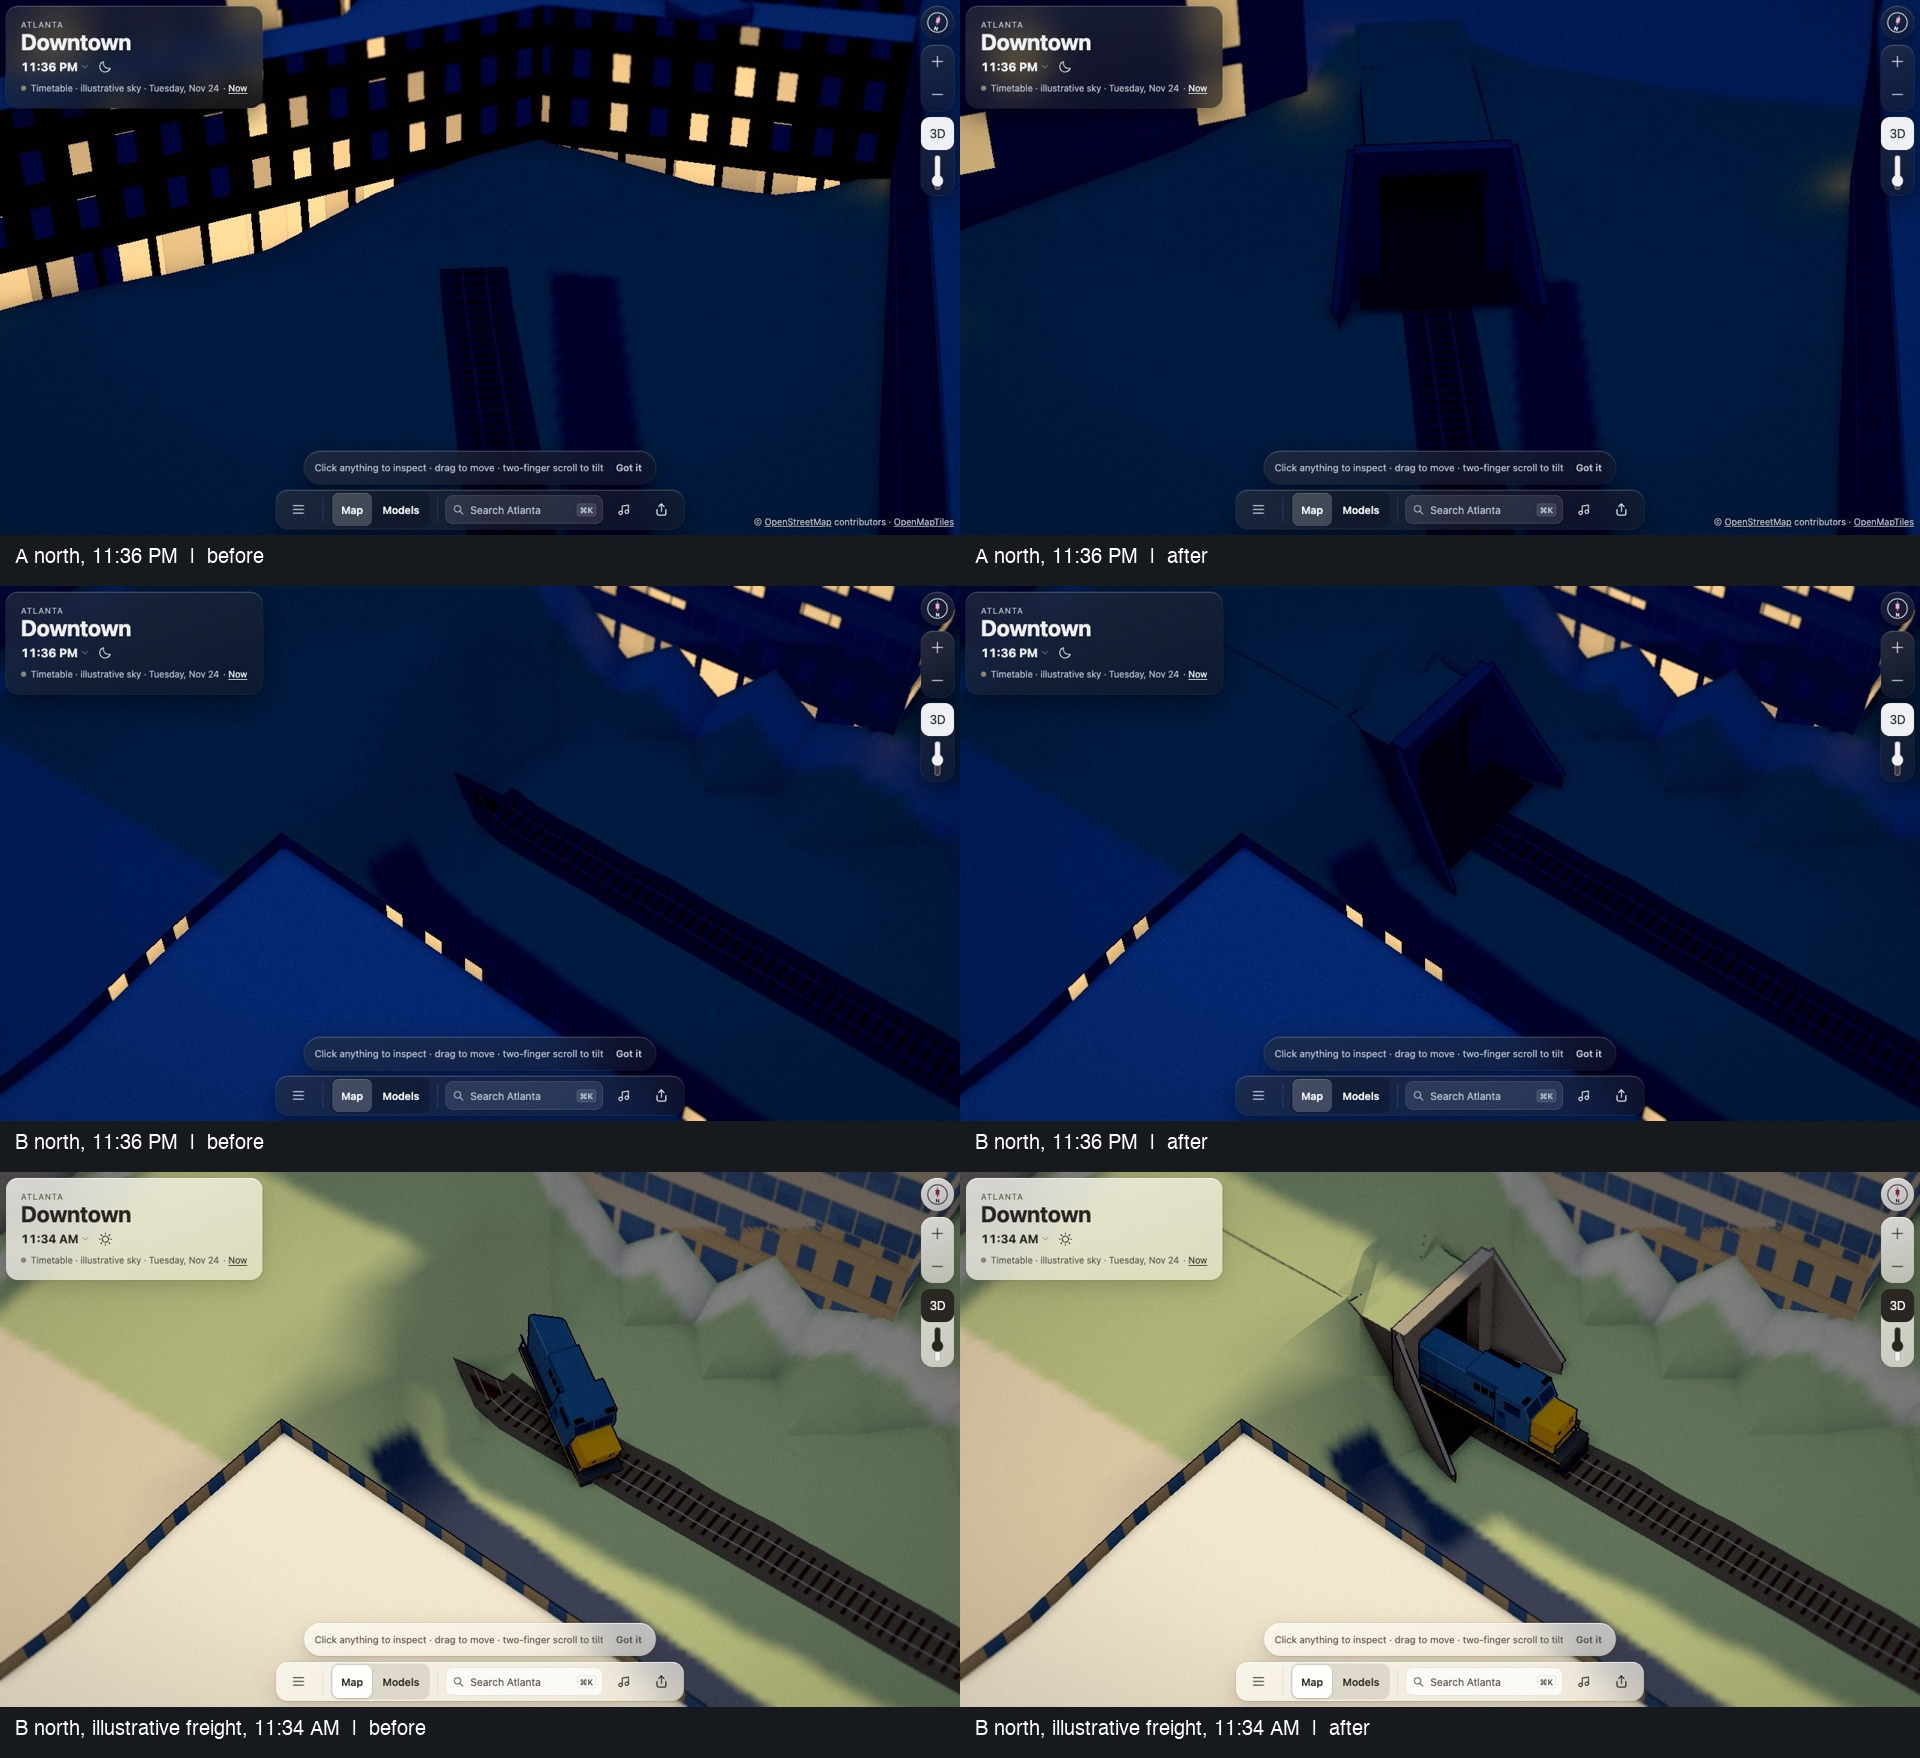
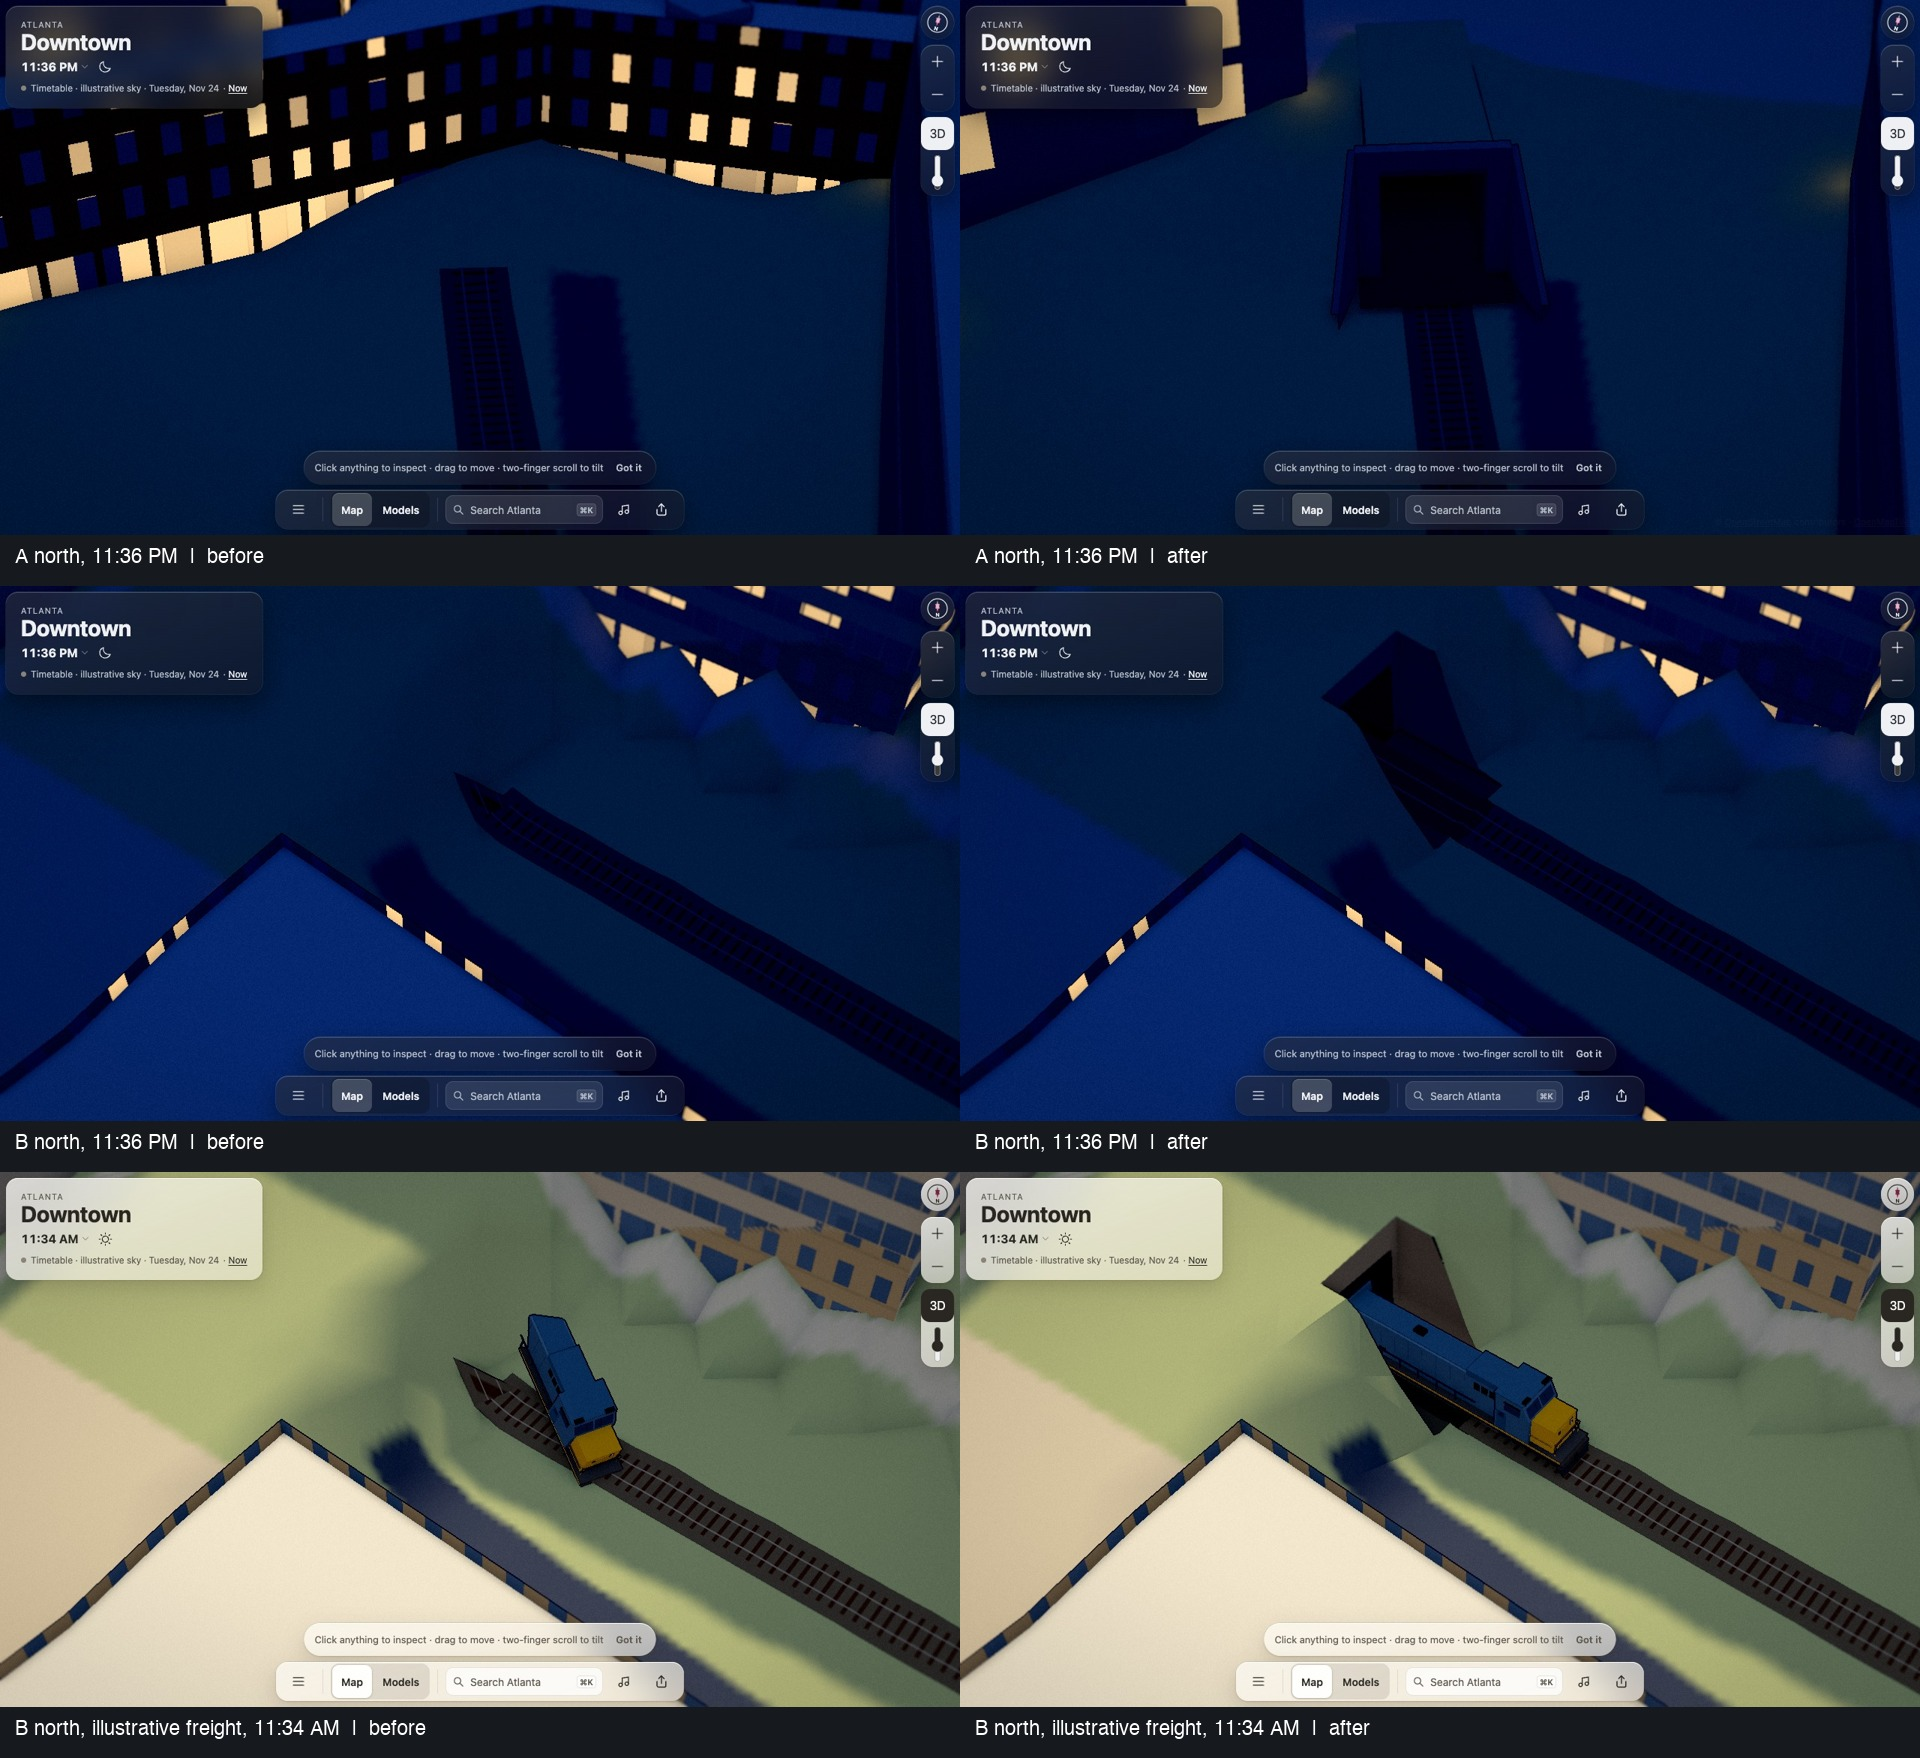
Set the Five Points freight mouth into the plaza bank

diff --git a/web/src/city/rail-portals.ts b/web/src/city/rail-portals.ts
@@ -27,9 +27,9 @@ export type MouthKind = 'hillside' | 'under' | 'cut-end' | 'terminus';
  * drawn building or deck at grade; `cut-end` is an end of the Five Points east cut, which still
  * lacks its end face (known, a separate fix); `terminus` is a real end of track.
  */
-export const DOWNTOWN_RAIL_ENDS: { at: P2; kind: MouthKind; why: string }[] = [
+export const DOWNTOWN_RAIL_ENDS: { at: P2; kind: MouthKind; faceInset?: number; why: string }[] = [
   { at: [-368, -592], kind: 'hillside', why: 'freight main into the tunnel under Centennial Olympic Park Dr, The CTR (ex-CNN Center) and the plaza; 8 m of cover' },
-  { at: [10, -41], kind: 'hillside', why: 'freight main into the tunnel under Underground Atlanta and Five Points; 9 m of cover' },
+  { at: [10, -41], kind: 'hillside', faceInset: 7, why: 'freight main into the tunnel under Underground Atlanta and Five Points; 9 m of cover' },
   { at: [-274, -345], kind: 'under', why: 'freight main under the Centennial Olympic Park Dr deck at grade' },
   { at: [-251, -288], kind: 'under', why: 'freight main into the Gulch deck structure at grade' },
   { at: [-199, -202], kind: 'under', why: 'freight main out of the Gulch deck structure at grade' },
@@ -55,6 +55,8 @@ export interface RailMouth {
   /** Scene y of the rail at the face, and of the cover over it. */
   railY: number;
   coverY: number;
+  /** Distance from the mapped rail end to the retaining face set into the hill. */
+  faceInset?: number;
 }
 
 /** Rail ends that neither meet another run nor a board edge. */
@@ -94,7 +96,8 @@ export function railMouths(rail: readonly Run[], bounds: { minX: number; maxX: n
   const zero = ground.manifest.vertical.sceneZeroNavd88M;
   const mouths: RailMouth[] = [];
   for (const end of looseRailEnds(rail, bounds)) {
-    if (declaredEnd(end.at)?.kind !== 'hillside') continue;
+    const declaration = declaredEnd(end.at);
+    if (declaration?.kind !== 'hillside') continue;
     const len = Math.hypot(end.at[0] - end.toward[0], end.at[1] - end.toward[1]) || 1;
     const dx = (end.at[0] - end.toward[0]) / len,
       dz = (end.at[1] - end.toward[1]) / len;
@@ -122,6 +125,7 @@ export function railMouths(rail: readonly Run[], bounds: { minX: number; maxX: n
       z: end.at[1] + dx * mid,
       dx,
       dz,
+      faceInset: declaration.faceInset,
       half: (hi - lo) / 2 + 3.2,
       railY: rail0 - zero,
       coverY: cover - zero,
@@ -133,8 +137,8 @@ export function railMouths(rail: readonly Run[], bounds: { minX: number; maxX: n
 /** Terrain openings so the lidar slope never fills a mouth: from 2 m outside the face to 16 m in. */
 export function railPortalOpenings(mouths: readonly RailMouth[]): OpenSlot[] {
   return mouths.map((m) => ({
-    start: [m.x - m.dx * 2, m.railY - 0.4, m.z - m.dz * 2] as const,
-    end: [m.x + m.dx * SLOT_END, m.railY - 0.4, m.z + m.dz * SLOT_END] as const,
+    start: [m.x - m.dx * 2, m.railY - (m.faceInset ? 1.2 : 0.4), m.z - m.dz * 2] as const,
+    end: [m.x + m.dx * (m.faceInset ?? SLOT_END), m.railY - (m.faceInset ? 1.2 : 0.4), m.z + m.dz * (m.faceInset ?? SLOT_END)] as const,
     halfWidthM: m.half + SLOT_MARGIN,
   }));
 }
@@ -172,6 +176,53 @@ export function buildRailPortals(mouths: readonly RailMouth[], ground: Ground, t
       clear = Math.min(7, Math.max(5.6, m.coverY - m.railY - 1.2)),
       top = Math.max(m.railY + clear + 1, m.coverY + 0.4),
       h = m.half;
+    if (m.faceInset) {
+      // At the south plaza the mapped track ends at the toe of a steep bank.
+      // Cut only the approach. The original terrain covers the entire tunnel.
+      const face = m.faceInset, outer = h + SLOT_MARGIN;
+      const rim = (u: number, w: number) => {
+        const [x, , z] = P(u, 0, w);
+        return terrainAt(x, z) ?? (ground.sample(x, z) ?? m.coverY + ground.manifest.vertical.sceneZeroNavd88M) - ground.manifest.vertical.sceneZeroNavd88M;
+      };
+      const ceiling = m.railY + 6;
+      for (const side of [-1, 1]) {
+        const u = side * outer;
+        // Wings meet the cut bank along its actual slope.
+        for (let w = -2; w < face; w++) {
+          const topAt = (s: number) => Math.max(y0, rim(u + side * .01, s));
+          quad([u,y0,w], [u,y0,w+1], [u,topAt(w+1),w+1], [u,topAt(w),w], CONCRETE_SIDE);
+        }
+        quad([side*h,y0,face], [u,y0,face], [u,ceiling,face], [side*h,ceiling,face], CONCRETE);
+        quad([side*h,y0,face], [side*h,ceiling,face], [side*h,ceiling,face+8], [side*h,y0,face+8], '#353330');
+      }
+      for (let u = -outer; u < outer; u += .5) {
+        const v = Math.min(outer,u+.5);
+        quad([u,ceiling,face], [v,ceiling,face], [v,rim(v,face+.01),face], [u,rim(u,face+.01),face], CONCRETE);
+      }
+      quad([-h,ceiling,face], [h,ceiling,face], [h,ceiling,face+8], [-h,ceiling,face+8], '#383531');
+      quad([-h,y0,face+8], [h,y0,face+8], [h,ceiling,face+8], [-h,ceiling,face+8], '#050505');
+      // The terrain slot clips the mapped tread just before its surveyed
+      // endpoint. Continue the rails from the last supported approach.
+      const approach = -3.5;
+      const tread = rim(0, approach) + .13;
+      const strip = (left: number, right: number, w0: number, w1: number, y: number, colour: string) => {
+        const vertex = (u: number, w: number) => {
+          const [x, , z] = P(u, 0, w);
+          const drawn = w <= -2 ? terrainAt(x, z) : null;
+          return [u, drawn === null ? y : Math.max(y, drawn + .04 + y - (tread-.09)), w];
+        };
+        for (let w = w0; w < w1; w += .5) {
+          const end = Math.min(w+.5,w1);
+          quad(vertex(left,w), vertex(right,w), vertex(right,end), vertex(left,end), colour);
+        }
+      };
+      quad([-outer,tread-.13,-2], [outer,tread-.13,-2], [outer,tread-.13,face], [-outer,tread-.13,face], '#645e53');
+      strip(-2.1, 2.1, approach, face+8, tread-.09, BALLAST);
+      for (let w = approach; w < face+7; w += .8)
+        strip(-1.15, 1.15, w, w+.18, tread-.045, '#4c453f');
+      for (const u of [-.7175,.7175]) strip(u-.065, u+.065, approach, face+8, tread, '#89877f');
+      continue;
+    }
     // Headwall: two piers and a lintel over the opening, with a coping.
     box(-h - 1.4, -h, y0, top, -0.4, 0.6, CONCRETE);
     box(h, h + 1.4, y0, top, -0.4, 0.6, CONCRETE);
@@ -223,8 +274,8 @@ export function buildRailPortals(mouths: readonly RailMouth[], ground: Ground, t
         if (terrainAt.triangles) {
           const point = ([x, y, z]: number[]) => [x, Math.max(y, (terrainAt(x, z) ?? -Infinity) + 0.12), z];
           const emit = (p: number[], q: number[], r: number[]) => body.tri(point(p), point(q), point(r), LID);
-          drapeTriangle(terrainAt.triangles, a, b, c1, 0.12, emit, Infinity, true);
-          drapeTriangle(terrainAt.triangles, a, c1, d, 0.12, emit, Infinity, true);
+          drapeTriangle(terrainAt.triangles, a, b, c1, 0.12, emit);
+          drapeTriangle(terrainAt.triangles, a, c1, d, 0.12, emit);
         } else body.quad(a, b, c1, d, LID);
       }
       for (const u of [-outer, outer]) quad([u, y0, w], [u, lid(u, w), w], [u, lid(u, w1), w1], [u, y0, w1], CONCRETE_SIDE);
@@ -256,8 +307,8 @@ export function extendFreightIntoMouths(treads: FreightTreadPoint[][], mouths: r
       const p = section[i].position;
       const mouth = mouths.find((m) => Math.hypot(m.x - p.x, m.z - p.z) < m.half + 3);
       if (!mouth) continue;
-      const step = new THREE.Vector3(mouth.dx, 0, mouth.dz).multiplyScalar(depth);
-      const ds = sign * depth * Math.sign(section[section.length - 1].s - section[0].s || 1);
+      const step = new THREE.Vector3(mouth.dx, 0, mouth.dz).multiplyScalar(depth + (mouth.faceInset ?? 0));
+      const ds = sign * (depth + (mouth.faceInset ?? 0)) * Math.sign(section[section.length - 1].s - section[0].s || 1);
       const point = { s: section[i].s + ds, position: p.clone().add(step) };
       point.position.y = p.y;
       if (i === 0) section.unshift(point);

diff --git a/web/src/terrain/drape.ts b/web/src/terrain/drape.ts
@@ -35,7 +35,7 @@ type V = readonly number[];
  * a void or off the board, abc is emitted unchanged: there is no terrain to clear.
  */
 export function drapeTriangle(src: TriangleSource, a: V, b: V, c: V, lift: number,
-  emit: (p: DrapedVertex, q: DrapedVertex, r: DrapedVertex) => void, maxRaise = Infinity, drapeAtVoid = false) {
+  emit: (p: DrapedVertex, q: DrapedVertex, r: DrapedVertex) => void, maxRaise = Infinity) {
   const area = (b[0] - a[0]) * (c[2] - a[2]) - (b[2] - a[2]) * (c[0] - a[0]);
   const whole = () => emit([a[0], a[1], a[2], 1, 0, 0], [b[0], b[1], b[2], 0, 1, 0], [c[0], c[1], c[2], 0, 0, 1]);
   if (Math.abs(area) < 1e-9) { whole(); return; }
@@ -86,22 +86,7 @@ export function drapeTriangle(src: TriangleSource, a: V, b: V, c: V, lift: numbe
     }));
   });
   // Shared edges and float rounding leave slivers; demand near-complete cover.
-  if (covered < Math.abs(area) * (1 - 1e-4)) {
-    if (!drapeAtVoid || !pieces.length) { whole(); return; }
-    // A tunnel lid spans the void. Keep its original height over the opening
-    // and raise just the pieces lying on drawn ground.
-    let uncovered: V[][] = [[a, b, c]];
-    for (const poly of pieces) {
-      const ring = poly.map(([x, , z]) => [x, z] as const);
-      const remaining: V[][] = [];
-      for (const [p, q, r] of uncovered) {
-        cutOut(p, q, r, ring, (u, v, w) => remaining.push([u, v, w]));
-      }
-      uncovered = remaining;
-    }
-    const vertex = (p: V): DrapedVertex => [p[0], p[1], p[2], ...weights(p[0], p[2])];
-    for (const [p, q, r] of uncovered) emit(vertex(p), vertex(q), vertex(r));
-  }
+  if (covered < Math.abs(area) * (1 - 1e-4)) { whole(); return; }
   for (const poly of pieces) for (let i = 1; i + 1 < poly.length; i++) emit(poly[0], poly[i], poly[i + 1]);
 }
 

diff --git a/docs/build-log.md b/docs/build-log.md
@@ -3680,3 +3680,7 @@ Sam spotted the Downtown Connector stopping dead at Georgia Tech, with a street 
 A draw capture of one shadow redraw on the phone tier, at the default view, counted 1.39 million triangles. That's more than half the main pass, and low redraws the map on every 80 m pan step. At the default view the shadow box covers about 90 pixels of the board, so the redraws pay for a 1 km island of shadow. The far-orbit rule fades shadow strength out where a 12 m building's shadow drops under two drawing-buffer pixels, then stops redrawing. On the Galaxy A16's 692-pixel canvas at 14:00 that happens at 17.1 km. At dusk the sun is low, shadows are long, and the rule never triggers. On a default-view pan at 6x CPU, frame rate goes from 26.4 to 31.3 fps, with no redraws instead of 36.
 
 Two surprises. First, the light sits over the last shadow centre, which starts at Infinity, so a session that opened already far put the sun at Infinity. Every clipped material then got NaN planes, and three.js threw on every uniform upload. Second, a layer on the shadow camera can't empty the shadow pass, because three tests casters against the main camera's layers. So the saving comes from skipped redraws. The look isn't neutral at 14:00, since downtown towers lose their small shadow patch, so this one is Sam's call. [Default view](log/perf/far-shadow/default-side-by-side.png) · [Zoom across the threshold](log/perf/far-shadow/zoom-strip-1400.png)
+
+### 2026-11-24 — Freight beneath the Five Points plaza
+
+The mapped freight rail ends at the foot of the plaza bank. Seven metres farther along the same heading, the ground has already climbed about eight metres across the width of the track. Putting the face there lets City keep the plaza itself over the train. The locomotive crosses the retaining wall with its two rails still visible beneath it. [Daylight comparison](log/ui/rail-portals/b-recessed.jpg) and [night and freight comparisons](log/ui/rail-portals/night-freight.jpg).
